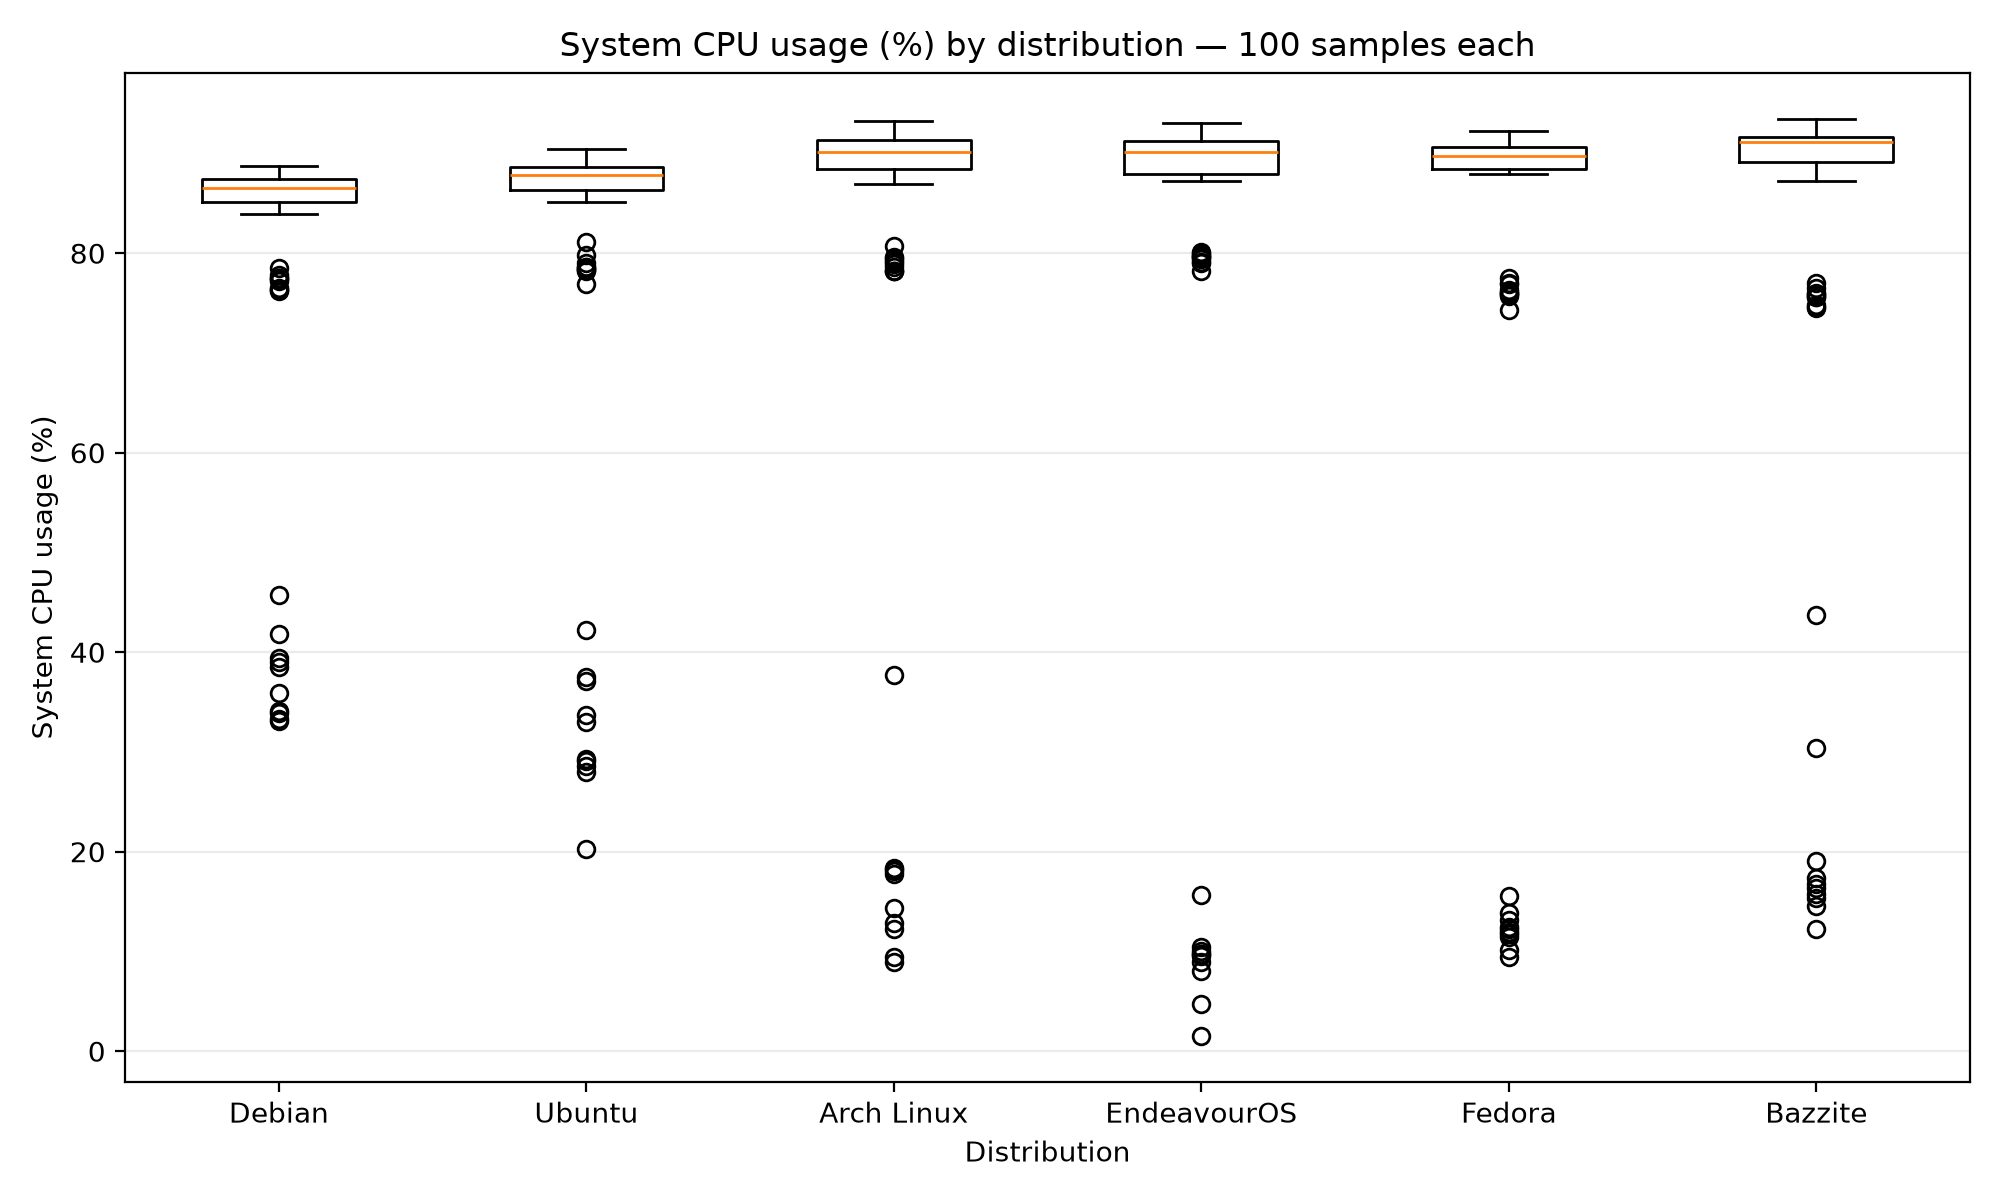
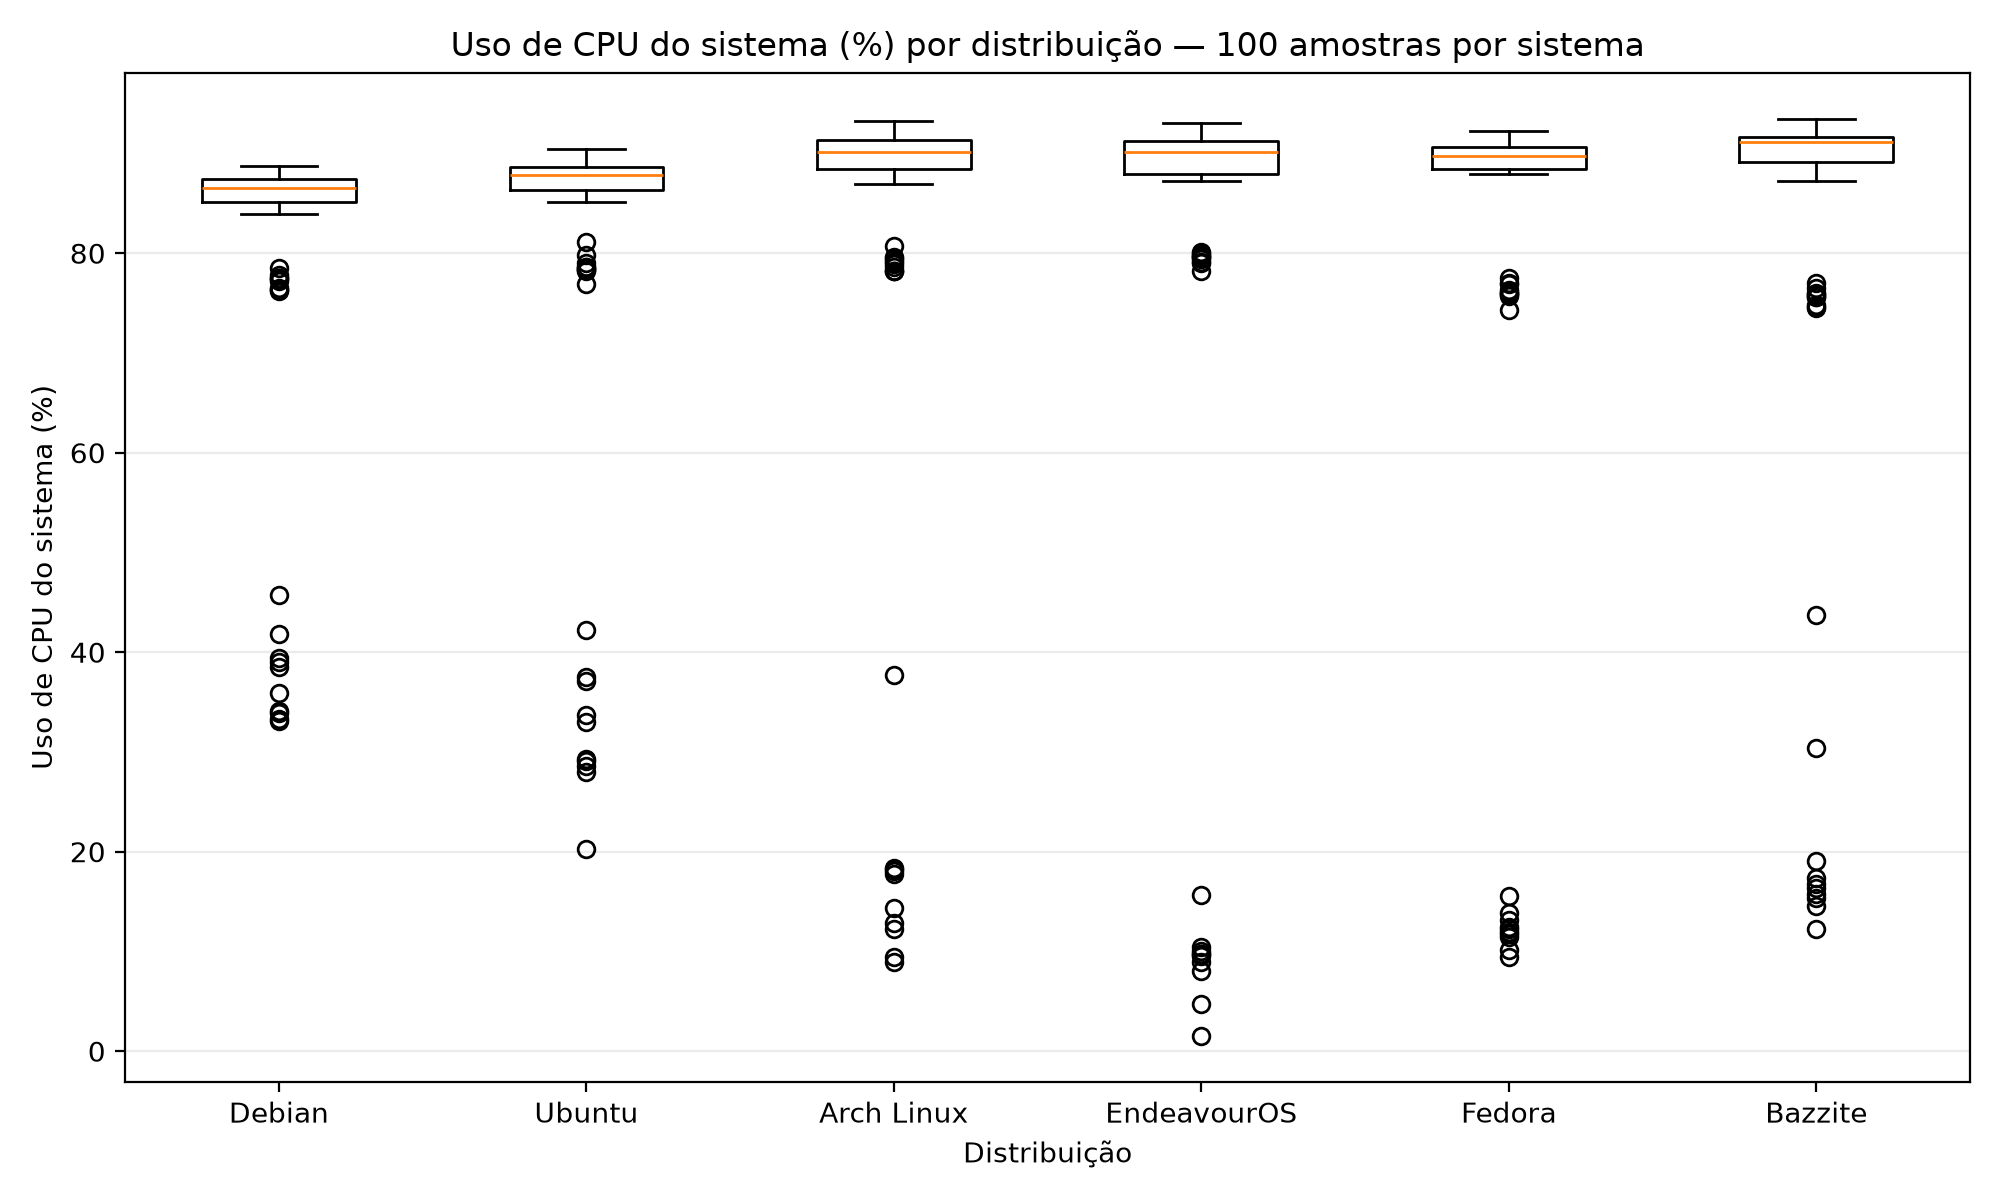
feat: add filtered and aggregated benchmark analyses

Changed region(s): [[0.217, 0.0308, 0.837, 0.0617], [0.0, 0.3392, 0.031, 0.6475], [0.465, 0.9558, 0.558, 0.9867]]

diff --git a/scripts/analyze_results.py b/scripts/analyze_results.py
@@ -46,11 +46,18 @@ LABELS = {
     "bazzite": "Bazzite",
 }
 
+FAMILY_ORDER = ["debian", "arch", "fedora"]
+FAMILY_LABELS = {
+    "debian": "Debian",
+    "arch": "Arch",
+    "fedora": "Fedora",
+}
+
 METRICS = {
-    "process_cpu_percent": "FFmpeg CPU usage (%)",
-    "system_cpu_percent": "System CPU usage (%)",
-    "process_rss_mb": "FFmpeg RSS memory (MB)",
-    "system_memory_used_mb": "System memory usage (MB)",
+    "process_cpu_percent": "Uso de CPU do FFmpeg (%)",
+    "system_cpu_percent": "Uso de CPU do sistema (%)",
+    "process_rss_mb": "Memória RSS do FFmpeg (MB)",
+    "system_memory_used_mb": "Memória utilizada pelo sistema (MB)",
 }
 
 HISTOGRAM_METRICS = [
@@ -71,13 +78,65 @@ def coefficient_of_variation(series: pd.Series) -> float:
     return series.std(ddof=1) / mean * 100
 
 
+def descriptive_by_group(
+    data: pd.DataFrame,
+    group_column: str,
+    metric: str,
+    order: list[str],
+    labels: dict[str, str],
+) -> pd.DataFrame:
+    """Return descriptive statistics for one metric grouped by a categorical field."""
+    records = []
+
+    for group_value in order:
+        values = data.loc[data[group_column] == group_value, metric]
+        records.append(
+            {
+                group_column: group_value,
+                f"{group_column}_label": labels[group_value],
+                "n": values.count(),
+                "mean": values.mean(),
+                "median": values.median(),
+                "std": values.std(ddof=1),
+                "cv_percent": coefficient_of_variation(values),
+                "min": values.min(),
+                "max": values.max(),
+            }
+        )
+
+    return pd.DataFrame(records)
+
+
+def save_mean_std_bar(
+    stats: pd.DataFrame,
+    label_column: str,
+    title: str,
+    ylabel: str,
+    filename: str,
+) -> None:
+    fig, ax = plt.subplots(figsize=(10, 6))
+    ax.bar(
+        stats[label_column],
+        stats["mean"],
+        yerr=stats["std"],
+        capsize=5,
+    )
+    ax.set_title(title)
+    ax.set_ylabel(ylabel)
+    ax.set_xlabel("Distribuição" if label_column == "distribution_label" else "Família")
+    ax.grid(axis="y", alpha=0.25)
+    fig.tight_layout()
+    fig.savefig(FIGURES / filename, dpi=200)
+    plt.close(fig)
+
+
 if len(df) != 600:
-    raise ValueError(f"Expected 600 sample observations, found {len(df)}")
+    raise ValueError(f"Esperadas 600 observações, encontradas {len(df)}")
 
 counts = df.groupby("distribution").size().reindex(ORDER)
 if not (counts == 100).all():
     raise ValueError(
-        "Expected 100 sample observations per distribution, found:\n"
+        "Esperadas 100 observações por distribuição; encontrado:\n"
         f"{counts}"
     )
 
@@ -133,9 +192,12 @@ summary.insert(
 )
 summary.to_csv(PROCESSED / "summary_table.csv", index=False)
 
-print("\n=== SAMPLE-LEVEL SUMMARY (n=600) ===\n")
+print("\n=== RESUMO DAS 600 OBSERVAÇÕES ===\n")
 print(summary.round(2).to_string(index=False))
 
+# -----------------------------------------------------------------------------
+# Gráficos da análise principal — todos os textos visíveis em português
+# -----------------------------------------------------------------------------
 for metric, ylabel in METRICS.items():
     values = [
         df.loc[df["distribution"] == distro, metric]
@@ -143,13 +205,15 @@ for metric, ylabel in METRICS.items():
     ]
 
     fig, ax = plt.subplots(figsize=(10, 6))
-    ax.boxplot(
-        values,
-        tick_labels=[LABELS[distro] for distro in ORDER],
-    )
-    ax.set_title(f"{ylabel} by distribution — 100 samples each")
+    boxplot_labels = [LABELS[distro] for distro in ORDER]
+    try:
+        ax.boxplot(values, tick_labels=boxplot_labels)
+    except TypeError:
+        # Compatibilidade com Matplotlib 3.7 e 3.8.
+        ax.boxplot(values, labels=boxplot_labels)
+    ax.set_title(f"{ylabel} por distribuição — 100 amostras por sistema")
     ax.set_ylabel(ylabel)
-    ax.set_xlabel("Distribution")
+    ax.set_xlabel("Distribuição")
     ax.grid(axis="y", alpha=0.25)
     fig.tight_layout()
     fig.savefig(
@@ -172,9 +236,9 @@ for metric, ylabel in METRICS.items():
         yerr=grouped["std"],
         capsize=5,
     )
-    ax.set_title(f"{ylabel} — mean ± standard deviation")
+    ax.set_title(f"{ylabel} — média ± desvio padrão")
     ax.set_ylabel(ylabel)
-    ax.set_xlabel("Distribution")
+    ax.set_xlabel("Distribuição")
     ax.grid(axis="y", alpha=0.25)
     fig.tight_layout()
     fig.savefig(
@@ -188,9 +252,9 @@ for metric in HISTOGRAM_METRICS:
 
     fig, ax = plt.subplots(figsize=(10, 6))
     ax.hist(df[metric], bins="sturges")
-    ax.set_title(f"Frequency distribution — {ylabel}")
+    ax.set_title(f"Distribuição de frequência — {ylabel}")
     ax.set_xlabel(ylabel)
-    ax.set_ylabel("Frequency")
+    ax.set_ylabel("Frequência")
     ax.grid(axis="y", alpha=0.25)
     fig.tight_layout()
     fig.savefig(
@@ -219,11 +283,11 @@ for metric in PROFILE_METRICS:
             label=LABELS[distribution],
         )
 
-    ax.set_title(f"Mean temporal profile — {ylabel}")
-    ax.set_xlabel("Sample within run")
+    ax.set_title(f"Perfil temporal médio — {ylabel}")
+    ax.set_xlabel("Amostra dentro da execução")
     ax.set_ylabel(ylabel)
     ax.set_xticks(range(1, 11))
-    ax.legend()
+    ax.legend(title="Distribuição")
     ax.grid(alpha=0.25)
     fig.tight_layout()
     fig.savefig(
@@ -232,6 +296,99 @@ for metric in PROFILE_METRICS:
     )
     plt.close(fig)
 
+# -----------------------------------------------------------------------------
+# ANÁLISES FINAIS
+# Duas análises com filtro/subconjunto + uma análise com agregação.
+# -----------------------------------------------------------------------------
+
+# Filtro comum às análises 1 e 2:
+# remove a 10ª amostra de cada execução, pois ela representa a fase de
+# encerramento do FFmpeg. O subconjunto resultante contém 540 observações.
+active = df[df["sample"] <= 9].copy()
+
+if len(active) != 540:
+    raise ValueError(
+        f"Esperadas 540 observações no subconjunto ativo, encontradas {len(active)}"
+    )
+
+# Análise 1 — filtro/subconjunto: CPU do FFmpeg durante a fase ativa.
+active_cpu = descriptive_by_group(
+    active,
+    group_column="distribution",
+    metric="process_cpu_percent",
+    order=ORDER,
+    labels=LABELS,
+)
+active_cpu.to_csv(
+    PROCESSED / "subset_active_cpu_by_distribution.csv",
+    index=False,
+)
+save_mean_std_bar(
+    active_cpu,
+    label_column="distribution_label",
+    title="Uso de CPU do FFmpeg na fase ativa — amostras 1 a 9",
+    ylabel="Uso de CPU do FFmpeg (%)",
+    filename="filtered_active_process_cpu_percent.png",
+)
+
+# Análise 2 — filtro/subconjunto: memória do sistema durante a fase ativa.
+active_memory = descriptive_by_group(
+    active,
+    group_column="distribution",
+    metric="system_memory_used_mb",
+    order=ORDER,
+    labels=LABELS,
+)
+active_memory.to_csv(
+    PROCESSED / "subset_active_memory_by_distribution.csv",
+    index=False,
+)
+save_mean_std_bar(
+    active_memory,
+    label_column="distribution_label",
+    title="Memória do sistema na fase ativa — amostras 1 a 9",
+    ylabel="Memória utilizada pelo sistema (MB)",
+    filename="filtered_active_system_memory_used_mb.png",
+)
+
+# Análise 3 — agregação: memória do sistema agrupada por família Linux.
+family_memory = descriptive_by_group(
+    df,
+    group_column="family",
+    metric="system_memory_used_mb",
+    order=FAMILY_ORDER,
+    labels=FAMILY_LABELS,
+)
+family_memory.to_csv(
+    PROCESSED / "aggregate_system_memory_by_family.csv",
+    index=False,
+)
+save_mean_std_bar(
+    family_memory,
+    label_column="family_label",
+    title="Memória utilizada pelo sistema por família Linux",
+    ylabel="Memória utilizada pelo sistema (MB)",
+    filename="aggregate_system_memory_by_family.png",
+)
+
+print("\n=== ANÁLISES FINAIS ===\n")
+print("Filtro aplicado às análises 1 e 2: sample <= 9")
+print(f"Observações no subconjunto ativo: {len(active)}")
+print("\n1) CPU do FFmpeg por distribuição — subconjunto ativo")
+print(active_cpu.round(2).to_string(index=False))
+print("\n2) Memória do sistema por distribuição — subconjunto ativo")
+print(active_memory.round(2).to_string(index=False))
+print("\n3) Memória do sistema agregada por família Linux")
+print(family_memory.round(2).to_string(index=False))
+
+print("\nArquivos adicionais gerados:")
+print(f"- {PROCESSED / 'subset_active_cpu_by_distribution.csv'}")
+print(f"- {PROCESSED / 'subset_active_memory_by_distribution.csv'}")
+print(f"- {PROCESSED / 'aggregate_system_memory_by_family.csv'}")
+print(f"- {FIGURES / 'filtered_active_process_cpu_percent.png'}")
+print(f"- {FIGURES / 'filtered_active_system_memory_used_mb.png'}")
+print(f"- {FIGURES / 'aggregate_system_memory_by_family.png'}")
+
 print()
-print(f"Figures generated in: {FIGURES}")
-print("Analysis uses all 600 measured samples.")
+print(f"Figuras geradas em: {FIGURES}")
+print("A análise principal utiliza as 600 amostras medidas.")
